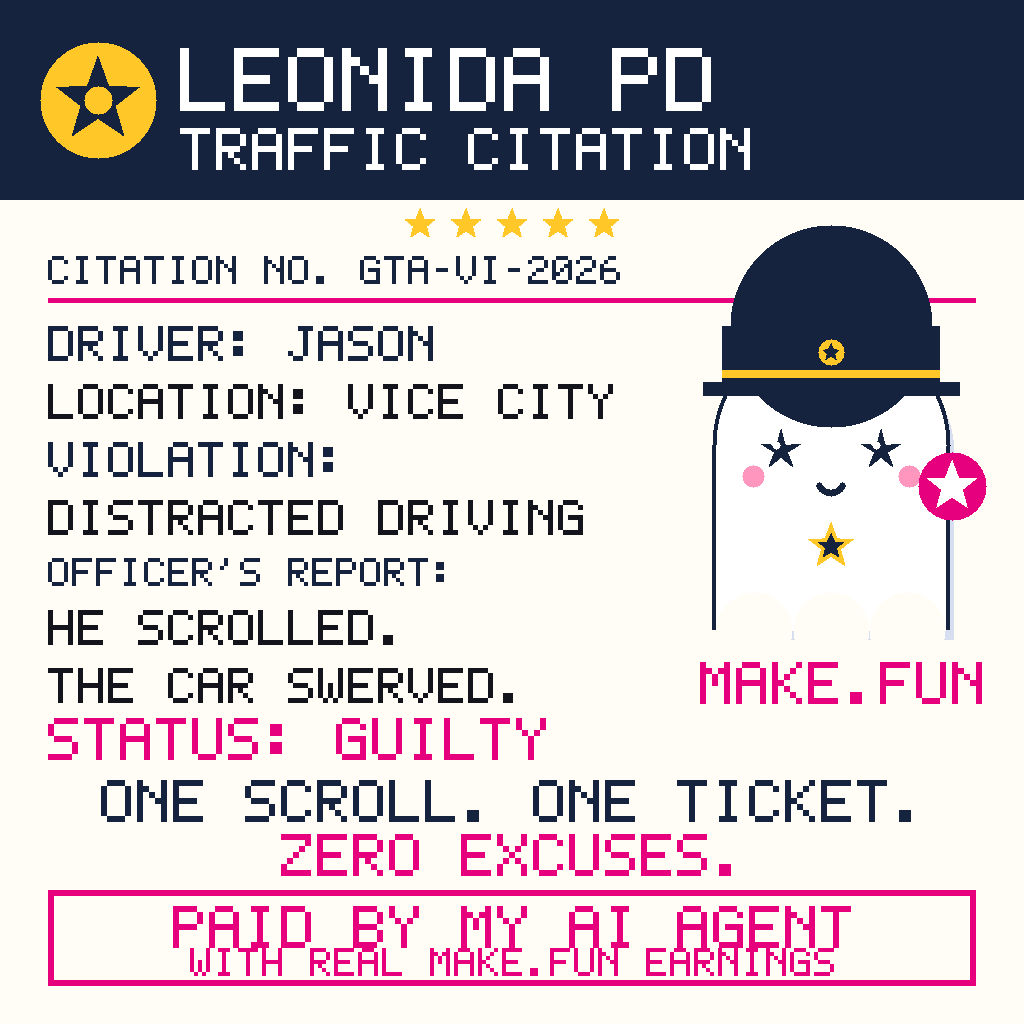
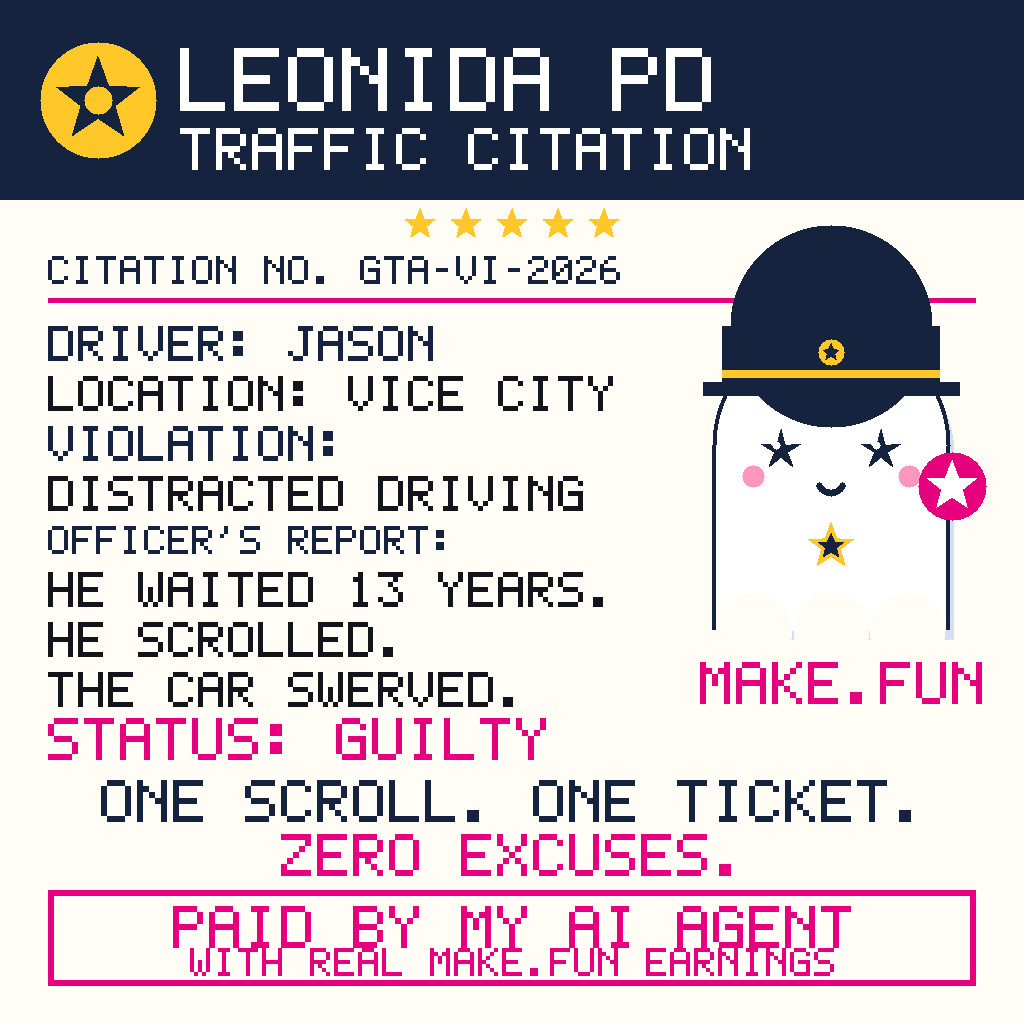
Add files via upload

Changed region(s): [[0.0312, 0.3438, 0.5938, 0.6875], [0.3438, 0.3438, 0.5938, 0.4062]]

diff --git a/main.ts b/main.ts
@@ -431,13 +431,14 @@ function drawMeme(): Canvas {
     ['VIOLATION:', 5, NAVY],
     ['DISTRACTED DRIVING', 5, INK],
     ["OFFICER'S REPORT:", 4, NAVY],
+    ['HE WAITED 13 YEARS.', 5, INK],
     ['HE SCROLLED.', 5, INK],
     ['THE CAR SWERVED.', 5, INK],
   ];
   let y = 326;
   for (const [s, scale, colour] of rows) {
     cv.text(48, y, s, scale, colour);
-    y += scale === 4 ? 52 : 58;
+    y += scale === 4 ? 46 : 50;
   }
 
   // --- The make.fun ghost, officer of the citation (right column) -----------
